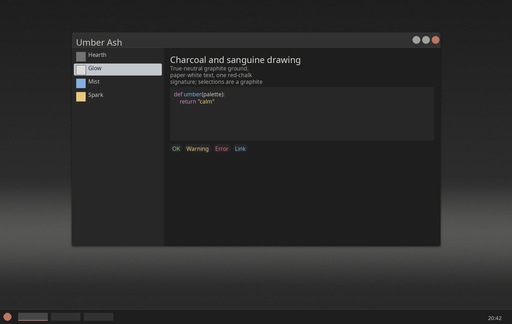
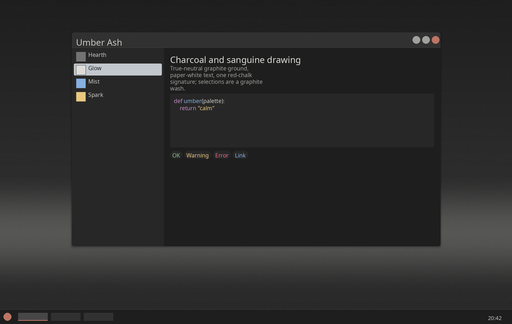
fix(previews): Ash's desktop preview shows its whole concept line
concept_blurb capped the wrapped tagline at three lines, cutting Ash's
shipped preview off at 'selections are a graphite'. Allow four; new test
requires every variant's full concept sentence.

Changed region(s): [[0.3125, 0.4321, 0.5, 0.4938], [0.3438, 0.2469, 0.4375, 0.3395]]

diff --git a/tests/test_render_previews.py b/tests/test_render_previews.py
@@ -1,0 +1,31 @@
+"""render_previews.py: content drawn into the shipped Plasma theme previews.
+
+Run: python3 -m unittest discover -s tests
+"""
+
+import sys
+import unittest
+from pathlib import Path
+
+REPO = Path(__file__).resolve().parent.parent
+sys.path.insert(0, str(REPO / "scripts"))
+
+import palette_lib  # noqa: E402
+import render_previews  # noqa: E402
+
+SHIPPED = [REPO / "palette.toml", *sorted((REPO / "palettes").glob("*.toml"))]
+
+
+class ConceptBlurbTest(unittest.TestCase):
+    def test_desktop_preview_carries_the_whole_concept_line(self):
+        for path in SHIPPED:
+            with self.subTest(variant=path.name):
+                pal = palette_lib.prepare(path)
+                headline, lines = render_previews.concept_blurb(pal)
+                sentences = pal["meta"]["concept"].split(". ")
+                self.assertEqual(headline, sentences[0])
+                self.assertEqual(" ".join(lines), sentences[1].rstrip(".") + ".")
+
+
+if __name__ == "__main__":
+    unittest.main()

diff --git a/scripts/render_previews.py b/scripts/render_previews.py
@@ -291,7 +291,7 @@ def _draw_panel(draw, w, h, R, font_small):
               clock, font=font_small, fill=R["fg"])
 
 
-def concept_blurb(pal, width=36, max_lines=3):
+def concept_blurb(pal, width=36, max_lines=4):
     """Headline + wrapped body lines from the palette's [meta] concept.
 
     "Indigo night. Deep ultramarine ground, ..." -> ("Indigo night", [...]).
